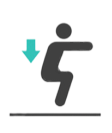
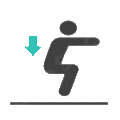
ksh pictogram & barchart legend fix

diff --git a/templates/loader/daily_page.html b/templates/loader/daily_page.html
@@ -38,11 +38,10 @@
                         <div class="">{{ kind.food_date }}</div>
                         <div class="spr-line-1 mb-1"></div>
                         <div class="col-5" style="float:left;">
-                            <h6>{{ kind.food_name }}</h6>
+                            <h5>{{ kind.food_name }}</h5>
                             <div class="inline">
                                 <img src="{{ url_for('static', filename=kind.food_image) }}" alt="food_image" id="food_image" onerror="this.src='{{ url_for('static', filename='images/No_image_available.webp') }}'">
                                 <div class="inline ms-2">
-                                    {{kind.food_image}}
                                     탄수화물: {{ nutrition[0] }}g<br>
                                     단백질: {{ nutrition[1] }}g<br>
                                     지방: {{ nutrition[2] }}g<br>
@@ -77,17 +76,17 @@
                             {% if loop.index > 1 %}
                                 <div class="spr-line-1"></div>
                             {% endif %}
-                            <div class="col-12">{{ kind.end_time }}</div>
+                            <div class="">{{ kind.end_time }}</div>
                             <div class="spr-line-1 mb-1"></div>
-                            <h6>{{ kind.exercise_name }}</h6>
+                            <h5>{{ kind.exercise_name }}</h5>
                             <div>
                                 <div class="inline">
-                                    <img src="{{ url_for('static', filename=kind.wimage) }}" alt="exercise_image" id="exercise_image" onerror="this.src='{{ url_for('static', filename='images/No_image_available.webp') }}'">
-                                    <span class="inline">
-                                        {{kind.image}}
-                                        운동 시간: {{ exec[5] }} 초, 운동 횟수: {{ exec[6] }} 회<br>
-                                        소모 칼로리: {{ exec[7] }} Kcal, 획득 코인: {{ exec[8] }} 개<br>
-                                        월: {{ exec[9] }} 월, 주차: {{ exec[10] }} 주차
+                                    <img src="{{ url_for('static', filename=kind.image) }}" alt="exercise_image" id="exercise_image" onerror="this.src='{{ url_for('static', filename='images/No_image_available.webp') }}'" style="margin-bottom:80px; margin-right:50px;">
+                                    <span class="inline mt-5" style="line-height: 190%">
+                                        운동 시간: {{ exec[5] }} 초<br>
+                                        운동 횟수: {{ exec[6] }} 회<br>
+                                        소모 칼로리: {{ exec[7] }} Kcal<br>
+                                        획득 코인: {{ exec[8] }} 개<br>
                                     </span>
                                 </div>
                             </div>

diff --git a/graphbase.py b/graphbase.py
@@ -33,7 +33,7 @@ class GraphBase:
             title_opts=opts.TitleOpts(title=title),
             yaxis_opts=opts.AxisOpts(min_='Datamin', name="kcal", type_="value"),
             xaxis_opts=opts.AxisOpts(axislabel_opts=opts.LabelOpts(rotate=0)),
-            legend_opts=opts.LegendOpts(pos_left="40%", legend_icon='pin'),
+            legend_opts=opts.LegendOpts(pos_right="10%", pos_top="5%", legend_icon='pin'),
             tooltip_opts=opts.TooltipOpts(trigger="axis", axis_pointer_type="cross")
         ).set_series_opts(
             label_opts=opts.LabelOpts(is_show=False))).overlap(Bar(init_opts=opts.InitOpts(theme=ThemeType.WESTEROS)

diff --git a/routes/exercise_route.py b/routes/exercise_route.py
@@ -70,7 +70,7 @@ def exercise_result():
     day = datetime.today().strftime("%d")
 
     print('idx type: ', type(idx))
-    exercise_image = 'images/exercise_img/' + idx + '.png'  # 이미지 없을때 기본 경로
+    exercise_image = 'images/exercise_img/' + str(idx) + '.png'  # 이미지 없을때 기본 경로
 
     # insert data in sql
     exechistorydb.insert_exercise_data(idx, name, start_time, end_time, exercised_time, calories, counter, coin, month,
